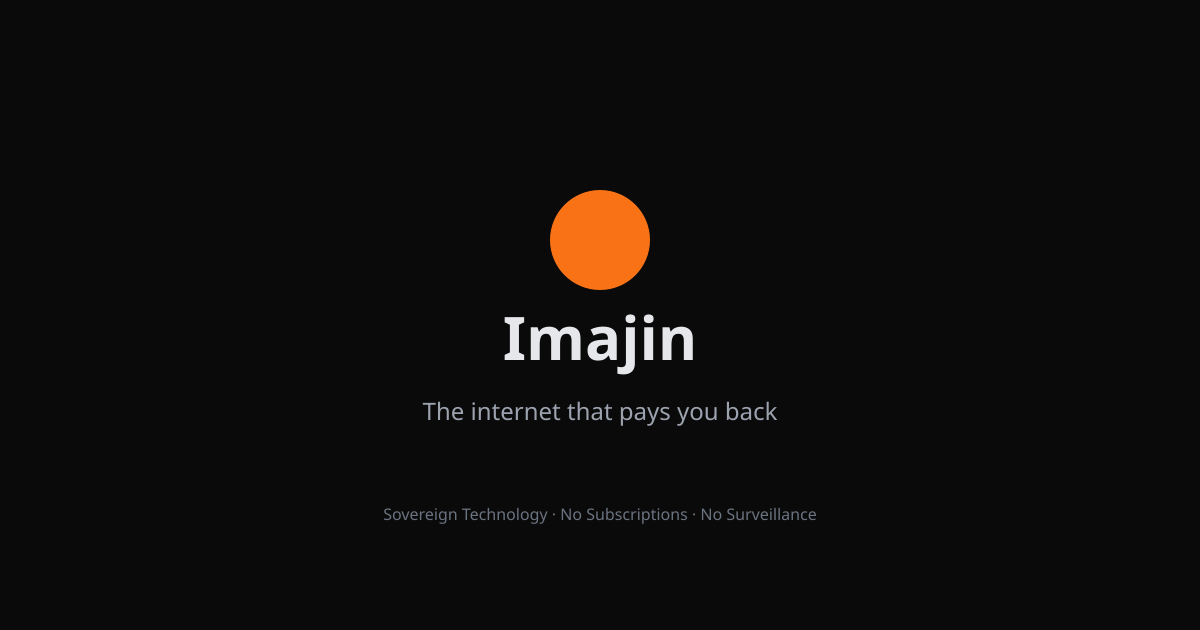
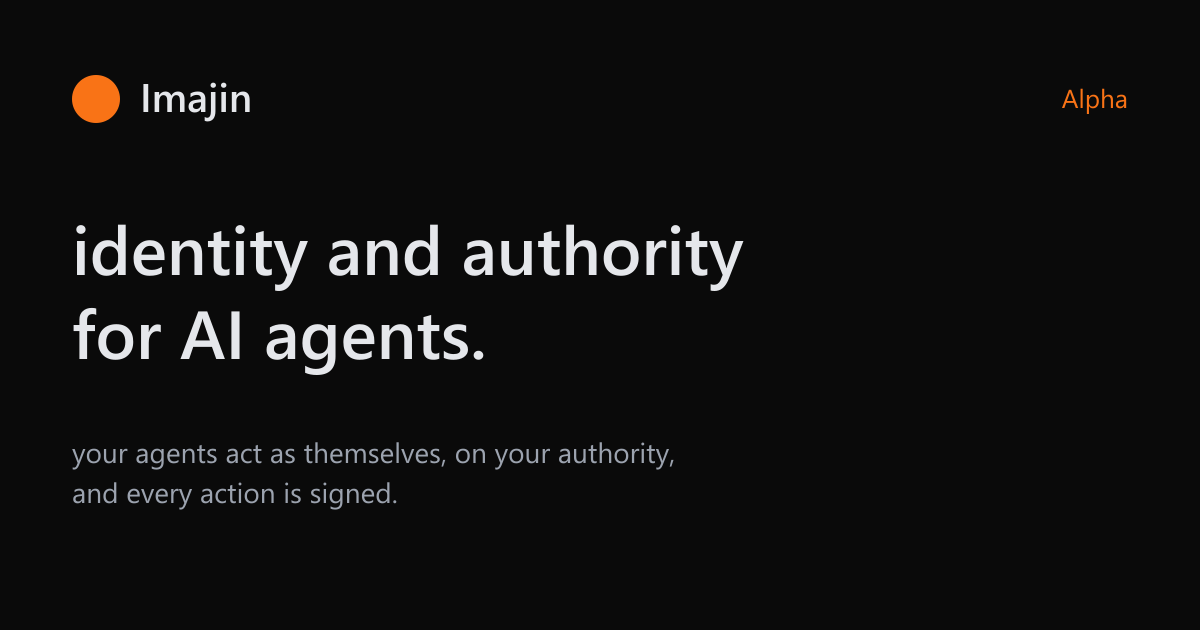
chore(kernel): align search, social cards and sitemap with agent positioning

diff --git a/apps/kernel/app/__tests__/public-metadata.test.ts b/apps/kernel/app/__tests__/public-metadata.test.ts
@@ -1,0 +1,113 @@
+import { afterEach, describe, expect, it, vi } from 'vitest';
+import { existsSync, readFileSync, readdirSync } from 'node:fs';
+import { resolve } from 'node:path';
+import sharp from 'sharp';
+import { APP_DISPLAY_NAME } from '@imajin/config';
+import sitemap from '../sitemap';
+
+vi.mock('../components/NavBarWithUnread', () => ({ NavBarWithUnread: () => null }));
+vi.mock('@/src/components/www/bug-report-button', () => ({ BugReportButton: () => null }));
+vi.mock('../providers', () => ({ Providers: () => null }));
+vi.mock('@/src/lib/kernel/session', () => ({ getSessionFromCookies: vi.fn() }));
+vi.mock('next/headers', () => ({ cookies: vi.fn() }));
+const { getAllArticles } = vi.hoisted(() => ({ getAllArticles: vi.fn() }));
+vi.mock('@/src/lib/www/articles', () => ({ getAllArticles }));
+
+const root = resolve(__dirname, '../../../..');
+const publicDir = resolve(root, 'apps/kernel/public');
+const positioning = readFileSync(resolve(root, 'docs/POSITIONING.md'), 'utf8');
+const oneLine = positioning.match(/\*\*One line:\*\* (.+)/)![1];
+const subLine = positioning.match(/\*\*Sub-line:\*\* (.+)/)![1];
+const publicPaths = ['', '/alpha', '/articles', '/how-it-works', '/compare', '/project'];
+
+afterEach(() => {
+  vi.unstubAllEnvs();
+  vi.clearAllMocks();
+});
+
+describe('root search and share metadata', () => {
+  it.each([
+    ['https://', ''],
+    ['https://dev-', ' [DEV]'],
+  ])('uses canonical positioning and preserves environment markers for %s', async (prefix, label) => {
+    vi.stubEnv('NEXT_PUBLIC_SERVICE_PREFIX', prefix);
+    vi.stubEnv('NEXT_PUBLIC_DOMAIN', 'imajin.ai');
+    vi.resetModules();
+    const { metadata, viewport } = await import('../layout');
+    const title = `${APP_DISPLAY_NAME} — ${oneLine} · Alpha${label}`;
+    expect(metadata.title).toEqual({ default: title, template: `%s | ${APP_DISPLAY_NAME}${label}` });
+    expect(metadata.description).toBe(subLine);
+    expect(metadata.openGraph).toMatchObject({
+      title, description: subLine, type: 'website',
+      images: [{ url: '/og-image.png', width: 1200, height: 630, alt: `Imajin · Alpha — ${oneLine}` }],
+    });
+    expect(metadata.twitter).toMatchObject({
+      title, description: subLine, card: 'summary_large_image', images: ['/og-image.png'],
+    });
+    expect(metadata.robots).toEqual({ index: !label, follow: !label });
+    expect(viewport).toMatchObject({ width: 'device-width', initialScale: 1 });
+    expect(JSON.stringify(metadata)).not.toMatch(/runs your community|Self-hosted software for communities/);
+  });
+});
+
+describe('regenerable share image', () => {
+  it('prints only the canonical one line and sub-line alongside brand and alpha', async () => {
+    const svg = readFileSync(resolve(publicDir, 'og-image.svg'), 'utf8');
+    const textBlocks = [...svg.matchAll(/<text\b[^>]*>([\s\S]*?)<\/text>/g)]
+      .map((match) => match[1].replaceAll(/<[^>]*>/g, '').replaceAll(/\s+/g, ' ').trim());
+    expect(textBlocks).toEqual(['Imajin', 'Alpha', oneLine, subLine]);
+    expect(svg).toContain('font-family="Segoe UI, ui-sans-serif, system-ui, sans-serif"');
+    expect(svg).toContain('fill="#0a0a0a"');
+    expect(svg).toContain('fill="#f97316"');
+    const png = sharp(readFileSync(resolve(publicDir, 'og-image.png')));
+    expect(await png.metadata()).toMatchObject({ format: 'png', width: 1200, height: 630 });
+    // Check the committed raster has branded background, orange mark and text.
+    const pixel = async (left: number, top: number) => [...await png.clone()
+      .extract({ left, top, width: 1, height: 1 }).removeAlpha().raw().toBuffer()];
+    expect(await pixel(0, 0)).toEqual([10, 10, 10]);
+    expect(await pixel(96, 99)).toEqual([249, 115, 22]);
+    const headline = await png.clone().extract({ left: 72, top: 200, width: 1056, height: 180 }).stats();
+    expect(headline.channels[0].max).toBeGreaterThan(200);
+  });
+
+  it('keeps the PNG as the only root social-image mechanism', () => {
+    const appDir = resolve(root, 'apps/kernel/app');
+    const rootFiles = readdirSync(appDir);
+    expect(rootFiles.some((name) => /^(?:opengraph|twitter)-image\./.test(name))).toBe(false);
+    const generator = readFileSync(resolve(publicDir, 'render-og-image.mjs'), 'utf8');
+    expect(generator).toContain("new URL('./og-image.svg', import.meta.url)");
+    expect(generator).toContain("new URL('./og-image.png', import.meta.url)");
+    expect(generator).toContain('sharp(source).png()');
+  });
+});
+
+describe('public sitemap', () => {
+  it('includes exactly the existing anonymous IA routes with no static sitemap shadow', async () => {
+    getAllArticles.mockResolvedValue([]);
+    const entries = await sitemap();
+    expect(entries.map(({ url }) => url)).toEqual(publicPaths.map((path) => `https://imajin.ai${path}`));
+    for (const path of publicPaths) {
+      expect(existsSync(resolve(root, `apps/kernel/app${path}/page.tsx`))).toBe(true);
+    }
+    expect(existsSync(resolve(publicDir, 'sitemap.xml'))).toBe(false);
+  });
+
+  it('retains author-qualified public articles, not legacy unqualified or handleless URLs', async () => {
+    getAllArticles.mockResolvedValue([
+      { authorHandle: 'jin', slug: 'signed', date: '2026-11-09' },
+      { authorHandle: null, slug: 'hidden', date: '2026-11-09' },
+      { authorHandle: '', slug: 'missing-author', date: '2026-11-09' },
+    ]);
+    const urls = new Set((await sitemap()).map(({ url }) => url));
+    expect(urls.has('https://imajin.ai/articles/jin/signed')).toBe(true);
+    expect(urls.size).toBe(publicPaths.length + 1);
+    for (const dropped of ['/register', '/articles/signed', '/articles/hidden', '/auth', '/admin']) {
+      expect(urls.has(`https://imajin.ai${dropped}`)).toBe(false);
+    }
+  });
+
+  it('retains all public IA routes when the database is unavailable', async () => {
+    getAllArticles.mockRejectedValue(new Error('database unavailable'));
+    expect((await sitemap()).map(({ url }) => url)).toEqual(publicPaths.map((path) => `https://imajin.ai${path}`));
+  });
+});

diff --git a/apps/kernel/app/layout.tsx b/apps/kernel/app/layout.tsx
@@ -22,6 +22,8 @@ const domain = process.env.NEXT_PUBLIC_DOMAIN || 'imajin.ai';
 const isDev = prefix.includes('dev-');
 const envLabel = isDev ? ' [DEV]' : '';
 const wwwUrl = buildPublicUrl('www', prefix, domain);
+const title = `${APP_DISPLAY_NAME} — identity and authority for AI agents. · Alpha${envLabel}`;
+const description = 'your agents act as themselves, on your authority, and every action is signed.';
 
 export const viewport: Viewport = {
   width: 'device-width',
@@ -31,32 +33,32 @@ export const viewport: Viewport = {
 export const metadata: Metadata = {
   metadataBase: new URL(wwwUrl),
   title: {
-    default: `${APP_DISPLAY_NAME} runs your community${envLabel}`,
+    default: title,
     template: `%s | ${APP_DISPLAY_NAME}${envLabel}`,
   },
-  description: 'Self-hosted software for communities, events, identity, and payments. Open source. Your data, your keys, your domain.',
-  keywords: ['sovereign', 'decentralized', 'identity', 'self-hosted', 'no-subscription', 'imajin'],
+  description,
+  keywords: ['AI agents', 'agent identity', 'delegated authority', 'signed record', 'alpha', 'imajin'],
   authors: [{ name: APP_DISPLAY_NAME, url: wwwUrl }],
   openGraph: {
     type: 'website',
     locale: 'en_US',
     url: wwwUrl,
     siteName: `${APP_DISPLAY_NAME}${envLabel}`,
-    title: `${APP_DISPLAY_NAME} runs your community${envLabel}`,
-    description: 'Self-hosted software for communities, events, identity, and payments. Open source. Your data, your keys, your domain.',
+    title,
+    description,
     images: [
       {
         url: '/og-image.png',
         width: 1200,
         height: 630,
-        alt: `${APP_DISPLAY_NAME} runs your community`,
+        alt: 'Imajin · Alpha — identity and authority for AI agents.',
       },
     ],
   },
   twitter: {
     card: 'summary_large_image',
-    title: `${APP_DISPLAY_NAME} runs your community${envLabel}`,
-    description: 'Self-hosted software for communities, events, identity, and payments.',
+    title,
+    description,
     images: ['/og-image.png'],
   },
   robots: {

diff --git a/apps/kernel/app/__tests__/position-pages.test.tsx b/apps/kernel/app/__tests__/position-pages.test.tsx
@@ -132,7 +132,7 @@ describe('public sitemap', () => {
   it('keeps the public pages discoverable when the article database is unavailable', async () => {
     getAllArticles.mockRejectedValue(new Error('database unavailable'));
     expect((await sitemap()).map((entry) => entry.url)).toEqual([
-      'https://imajin.ai', 'https://imajin.ai/alpha', 'https://imajin.ai/articles', 'https://imajin.ai/how-it-works', 'https://imajin.ai/compare',
+      'https://imajin.ai', 'https://imajin.ai/alpha', 'https://imajin.ai/articles', 'https://imajin.ai/how-it-works', 'https://imajin.ai/compare', 'https://imajin.ai/project',
     ]);
   });
 });

diff --git a/apps/kernel/app/sitemap.ts b/apps/kernel/app/sitemap.ts
@@ -39,7 +39,7 @@ export default async function sitemap(): Promise<MetadataRoute.Sitemap> {
       changeFrequency: 'weekly',
       priority: 0.9,
     },
-    ...['/how-it-works', '/compare'].map((path) => ({
+    ...['/how-it-works', '/compare', '/project'].map((path) => ({
       url: `${DOMAIN}${path}`,
       changeFrequency: 'monthly' as const,
       priority: 0.8,
